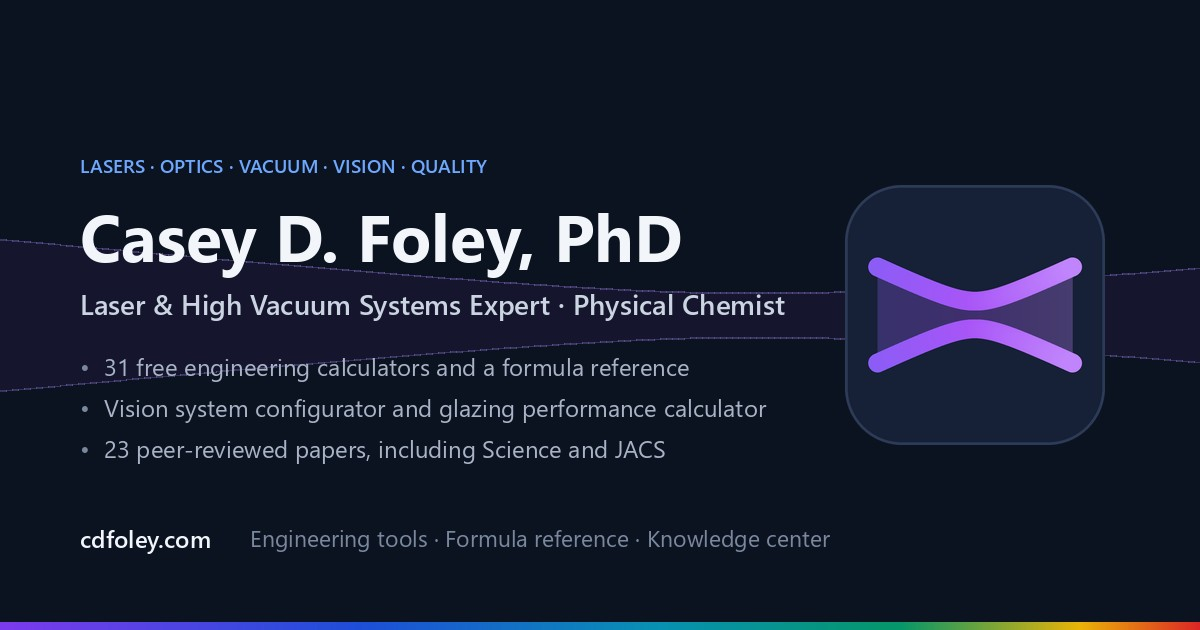
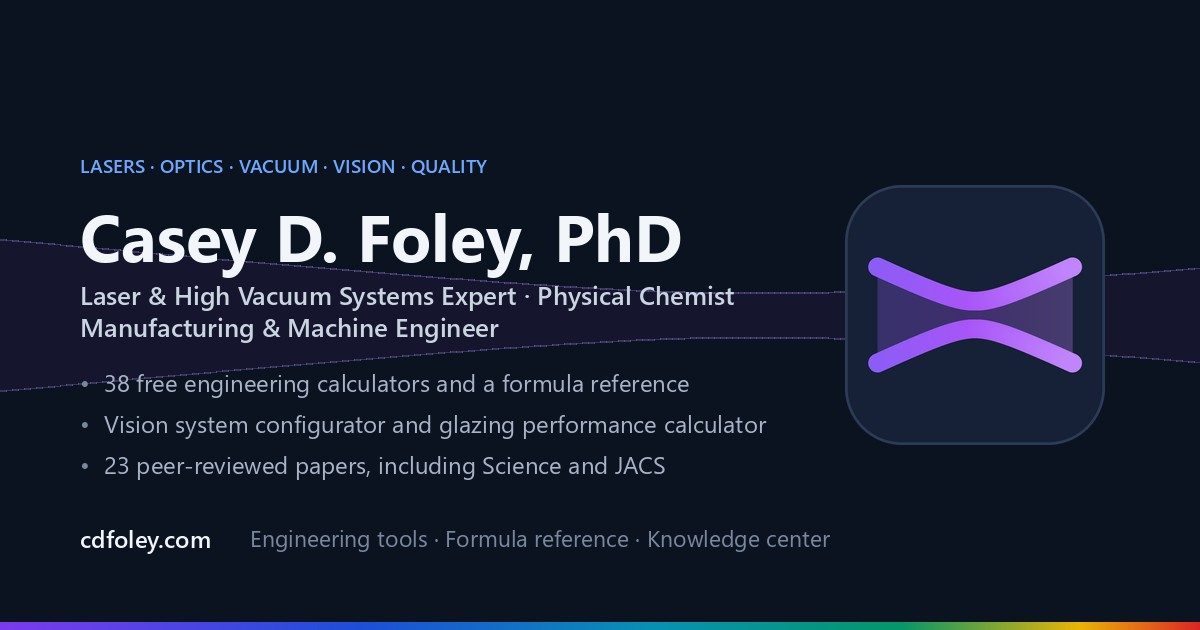
Home: add Manufacturing & Machine Engineer to the tagline
Hero role line, share-image alt text on home, publications and resume, and the
share card (two-line subtitle when it no longer fits on one).

Changed region(s): [[0.0617, 0.573, 0.6475, 0.754], [0.0617, 0.4524, 0.6475, 0.5429]]

diff --git a/index.html b/index.html
@@ -14,7 +14,7 @@
 <meta property="og:image" content="https://cdfoley.com/assets/img/og-card.jpg">
 <meta property="og:image:width" content="1200">
 <meta property="og:image:height" content="630">
-<meta property="og:image:alt" content="Casey D. Foley, PhD, Laser &amp; High Vacuum Systems Expert and Physical Chemist: free engineering calculators, a formula reference, and peer-reviewed papers including Science and JACS.">
+<meta property="og:image:alt" content="Casey D. Foley, PhD, Laser &amp; High Vacuum Systems Expert, Physical Chemist and Manufacturing &amp; Machine Engineer: free engineering calculators, a formula reference, and peer-reviewed papers including Science and JACS.">
 <meta name="twitter:card" content="summary_large_image">
 <link rel="icon" href="/assets/img/favicon.svg" type="image/svg+xml">
 <link rel="preload" href="/assets/fonts/InterVariable.woff2" as="font" type="font/woff2" crossorigin>
@@ -147,7 +147,7 @@
         <div>
             <span class="eyebrow">Lasers · Vacuum · Ion &amp; Electron Beams · Metrology · Quality</span>
             <h1>Casey D. Foley, PhD</h1>
-            <p class="hero-role">Laser &amp; High Vacuum Systems Expert · Physical Chemist</p>
+            <p class="hero-role"><span style="white-space:nowrap">Laser &amp; High Vacuum Systems Expert</span> · <span style="white-space:nowrap">Physical Chemist</span> · <span style="white-space:nowrap">Manufacturing &amp; Machine Engineer</span></p>
             <p class="hero-summary">Free calculators, an ion and electron optics simulator and an absorption cross-section atlas (both in beta), a vision system configurator, a formula reference, and practical explainers for lasers, optics, vacuum, spectroscopy and photochemistry, machine vision, and process quality. They come out of my work in production manufacturing, a national laboratory, and university research, and I keep them here for anyone who needs them.</p>
             <form class="tool-search hero-search" action="/tools/" method="get" role="search">
                 <svg viewBox="0 0 24 24" fill="none" stroke="currentColor" stroke-width="2" stroke-linecap="round" aria-hidden="true"><circle cx="11" cy="11" r="7"/><path d="m20 20-3.5-3.5"/></svg>

diff --git a/publications/index.html b/publications/index.html
@@ -14,7 +14,7 @@
 <meta property="og:image" content="https://cdfoley.com/assets/img/og-card.jpg">
 <meta property="og:image:width" content="1200">
 <meta property="og:image:height" content="630">
-<meta property="og:image:alt" content="Casey D. Foley, PhD, Laser &amp; High Vacuum Systems Expert and Physical Chemist: free engineering calculators, a formula reference, and peer-reviewed papers including Science and JACS.">
+<meta property="og:image:alt" content="Casey D. Foley, PhD, Laser &amp; High Vacuum Systems Expert, Physical Chemist and Manufacturing &amp; Machine Engineer: free engineering calculators, a formula reference, and peer-reviewed papers including Science and JACS.">
 <meta name="twitter:card" content="summary_large_image">
 <link rel="icon" href="/assets/img/favicon.svg" type="image/svg+xml">
 <link rel="preload" href="/assets/fonts/InterVariable.woff2" as="font" type="font/woff2" crossorigin>

diff --git a/resume/index.html b/resume/index.html
@@ -14,7 +14,7 @@
 <meta property="og:image" content="https://cdfoley.com/assets/img/og-card.jpg">
 <meta property="og:image:width" content="1200">
 <meta property="og:image:height" content="630">
-<meta property="og:image:alt" content="Casey D. Foley, PhD, Laser &amp; High Vacuum Systems Expert and Physical Chemist: free engineering calculators, a formula reference, and peer-reviewed papers including Science and JACS.">
+<meta property="og:image:alt" content="Casey D. Foley, PhD, Laser &amp; High Vacuum Systems Expert, Physical Chemist and Manufacturing &amp; Machine Engineer: free engineering calculators, a formula reference, and peer-reviewed papers including Science and JACS.">
 <meta name="twitter:card" content="summary_large_image">
 <link rel="icon" href="/assets/img/favicon.svg" type="image/svg+xml">
 <link rel="preload" href="/assets/fonts/Inter-Regular.woff2" as="font" type="font/woff2" crossorigin>

diff --git a/_scripts/og_card.py b/_scripts/og_card.py
@@ -64,14 +64,20 @@ def fit(text, name, size, minsize):
 
 d.text((x0, 152), 'LASERS · OPTICS · VACUUM · VISION · QUALITY', font=font('seguisb.ttf', 19), fill=BLUE)
 d.text((x0, 190), 'Casey D. Foley, PhD', font=fit('Casey D. Foley, PhD', 'segoeuib.ttf', 66, 48), fill=WHITE)
-sub = 'Laser & High Vacuum Systems Expert · Physical Chemist'
-d.text((x0, 284), sub, font=fit(sub, 'seguisb.ttf', 30, 22), fill=SUB)
+sub = 'Laser & High Vacuum Systems Expert · Physical Chemist · Manufacturing & Machine Engineer'
+if d.textlength(sub, font=font('seguisb.ttf', 22)) > maxw:  # two lines, split at the last separator
+    a, b = sub.rsplit(' · ', 1)
+    d.text((x0, 276), a, font=fit(a, 'seguisb.ttf', 26, 22), fill=SUB)
+    d.text((x0, 308), b, font=fit(b, 'seguisb.ttf', 26, 22), fill=SUB)
+else:
+    d.text((x0, 284), sub, font=fit(sub, 'seguisb.ttf', 30, 22), fill=SUB)
+by0 = 366 if d.textlength(sub, font=font('seguisb.ttf', 22)) > maxw else 350
 bullets = ['%d free engineering calculators and a formula reference' % n_tools,
            'Vision system configurator and glazing performance calculator',
            '23 peer-reviewed papers, including Science and JACS']
 fb = font('segoeui.ttf', 24)
 for i, b in enumerate(bullets):
-    y = 350 + i * 41
+    y = by0 + i * 41
     d.text((x0, y), '•', font=fb, fill=MUTED)
     d.text((x0 + 24, y), b, font=fit(b, 'segoeui.ttf', 24, 19), fill=BODY)
 d.text((x0, 522), 'cdfoley.com', font=font('seguisb.ttf', 24), fill=WHITE)
